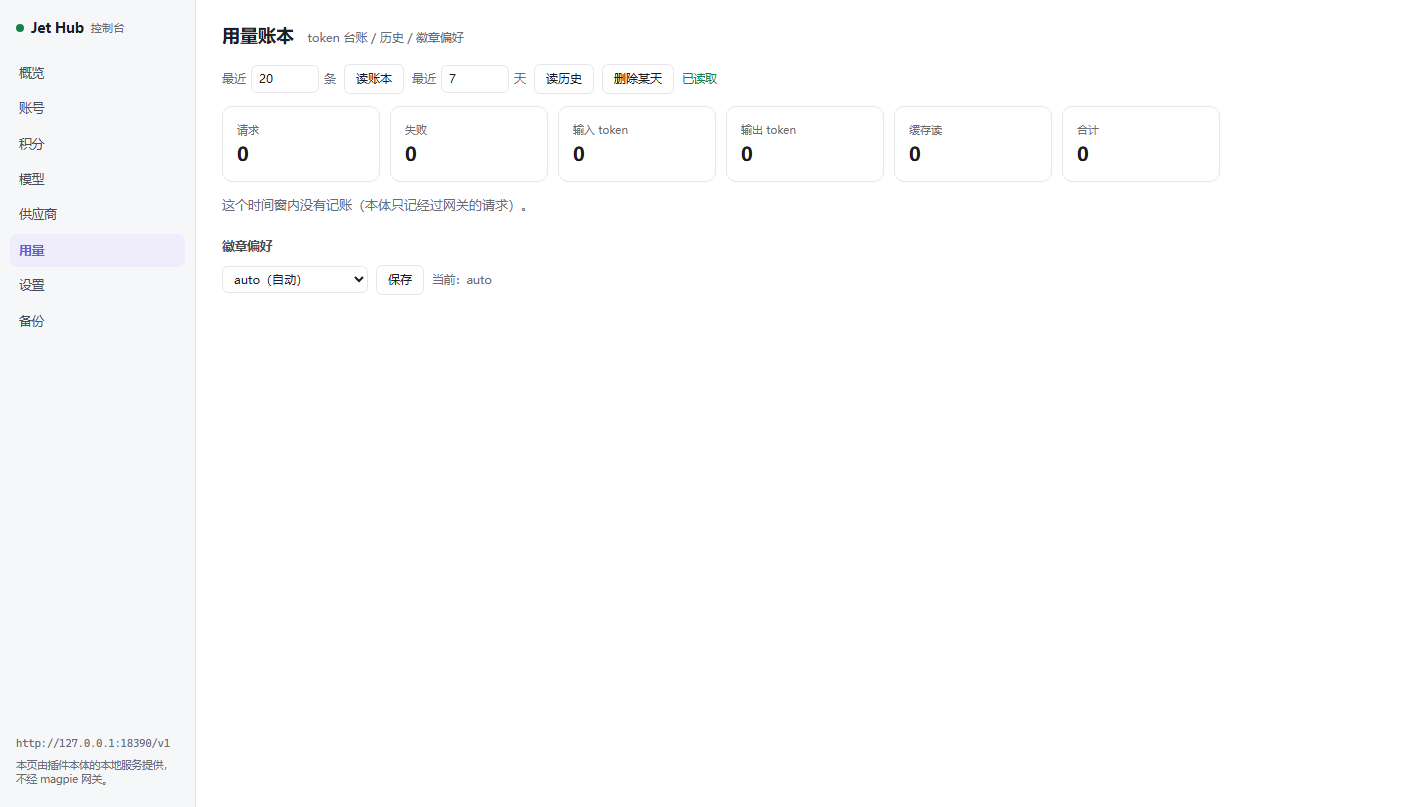
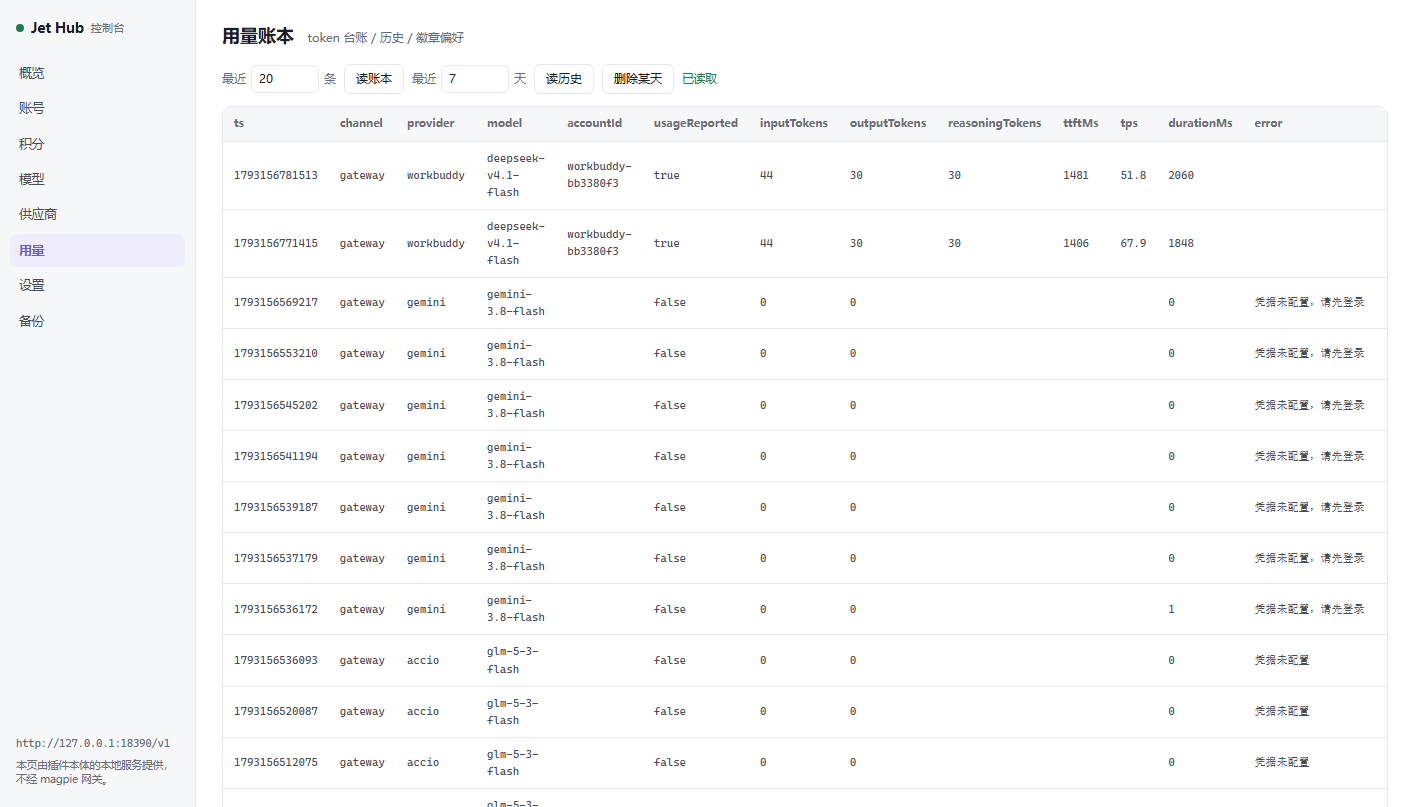
docs: 补接 5 家 provider 的验证记录（含三家上游真实报错归因）

diff --git a/VERIFICATION.md b/VERIFICATION.md
@@ -906,3 +906,108 @@ $ node scripts/test-all.mjs
 ✓ t-options.mjs    ✓ t-plugin.mjs         ✓ t-models-nowait.mjs  ✓ t-seed-auth.mjs
 8 通过 / 0 失败 / 0 跳过
 ```
+
+## 十七、补接漏掉的 5 家 provider：19 → 24
+
+### 症状
+
+`magpie plugin list` 里 `jet-hub-*` 只有 19 条，而本体自报 23 个真渠道 + 1 个
+路由组。少的是 `minimax` / `accio` / `gemini` / `codely` / `autoclawintl`。
+
+### 根因
+
+`src/plugin.mjs` 的 `DSH_PROVIDERS` 是手写常量，当初照着「有账号的渠道」抄的，
+漏掉了这几家。而 `provider.status` **查不出它们** —— 传 `{providers: []}`
+返回 `statuses: {}`，只有显式点名才回状态，所以一直没有暴露。
+
+真正的全名单只能从 `provider.getOrder` 拿：
+```
+order: [aggregate, buddy, workbuddy, lobsterai, trae, loomy, officeace, astudio,
+        codearts, qodercn, qoder, zcode, autoclaw, autoclawintl, modelscope,
+        minimax, minimaxintl, gemini, accio, raccoon, cline, opencode, codely]
+```
+共 23 个（不含 `jet-hub-auto`）。
+
+### 这 5 家确实该接（实测）
+
+```
+autoclawintl   accounts=0  models=4   (zai_glm-5.3-flash, zaicoding_glm-5.3, zai_auto)
+minimax        accounts=2  models=5   (MiniMax-M3.1-Flash-Preview, MiniMax-M3, MiniMax-M2.7-highspeed…)
+gemini         accounts=0  models=1   (gemini-3.8-flash)
+accio          accounts=1  models=15  (qwen-3-8-27b, qwen-3-8-flash, glm-5-3-flash…)
+codely         accounts=0  models=5   (codely-core, codely-basic, codely-flash…)
+```
+`minimax` 有 2 个**启用**账号，是漏接里唯一能直接用的。
+
+### 改动
+
+1. `src/plugin.mjs` `DSH_PROVIDERS` 19 → 24（按字母序插入 5 项）；
+2. 同文件 `NAMES` 补 5 条中文名、`FALLBACK_MODELS` 补 5 条静态兜底；
+3. `scripts/snapshot-models.mjs` 的 `NAMES` 补 5 条（侧栏页显示名）；
+4. 重新生成 `index.mjs` → 24 个 `JetHub*Plugin` 工厂。
+
+### 验证一：装进 magpie
+
+```
+$ magpie plugin list | grep -c '^  jet-hub'
+24
+
+$ magpie plugin list | grep -E 'jet-hub-(minimax|accio|gemini|codely|autoclawintl) '
+  jet-hub-accio (Jet Hub · Accio（阿里）, 15 models)  signed in as accio-2e8cb773（已停用）
+  jet-hub-autoclawintl (Jet Hub · AutoClaw 国际, 4 models)  signed in as （本机 DSH 未登录该渠道）
+  jet-hub-codely (Jet Hub · Codely, 5 models)  signed in as （本机 DSH 未登录该渠道）
+  jet-hub-gemini (Jet Hub · Gemini, 1 models)  signed in as （本机 DSH 未登录该渠道）
+  jet-hub-minimax (Jet Hub · MiniMax, 5 models)  signed in as MiniMax407112
+```
+重跑 `node scripts/seed-auth.mjs` 后 24 家全部有签入记录（`plugin-auth.json`
+共 85 条，本插件 61 条）。
+
+### 验证二：网关暴露的模型
+
+```
+$ curl -s http://127.0.0.1:3425/v1/models
+jet-hub-minimax/       [MiniMax-M3.1-Flash-Preview, MiniMax-M3, MiniMax-M2.7-highspeed, …]
+jet-hub-accio/         [qwen-3-8-27b, qwen-3-8-flash, glm-5-3-flash, deepseek-v4-1-flash, …]
+jet-hub-gemini/        [gemini-3.8-flash]
+jet-hub-codely/        [codely-core, codely-basic, codely-flash, codely-air, codely-vl]
+jet-hub-autoclawintl/  [zai_glm-5.3-flash, zaicoding_glm-5.3, zai_auto, zai_auto-fast]
+```
+
+### 验证三：真转发（这 5 家都是上游侧的真实状态，不是插件缺陷）
+
+```
+jet-hub-minimax/MiniMax-M2.7-highspeed
+  → 无法确认是否有可用账号。已锁定永久积分，而本次余额查询未能全部完成
+    （凭据未配置或已失效（共 2 个账号））
+    ↳ 两个 minimax 账号的 credentialRef（MINIMAX_ACCOUNT_6062BF46 /
+      MINIMAX_ACCOUNT_E128B011）在 .credentials.yaml 里不存在 —— 本体侧也没登录过
+
+jet-hub-accio/glm-5-3-flash
+  → 凭据未配置
+    ↳ 凭据本身有效（resolve 得到 access_token + refresh_token + expires_at），
+      但账号 accio-2e8cb773 是 enabled: false；本体没有「启用账号」的 RPC
+      （account.update 只改昵称/ref），需在 DSH 面板里启用
+
+jet-hub-gemini/gemini-3.8-flash
+  → 凭据未配置，请先登录
+    ↳ .credentials.yaml 里没有 GEMINI_* ref，本体从未登录过
+```
+对照：`jet-hub-workbuddy/deepseek-v4.1-flash` 仍 200（返回 `reasoning_content`）。
+
+### 验证四：界面
+
+```
+$ node scripts/snapshot-models.mjs
+✓ 893 个模型 / 24 个 provider（来源：plugin-cache（上游全量））→ page/models.js
+
+$ curl /api/providers | jet-hub provider 数: 24 ｜模型合计: 893
+
+$ node scripts/shot-console.cjs        # 八标签全部 err:[]
+$ node tests/ui-check.cjs              # 侧栏六标签均渲染正常，24 个供应商
+```
+
+### 验证五：整跑
+```
+$ node scripts/test-all.mjs
+8 通过 / 0 失败 / 0 跳过
+```
